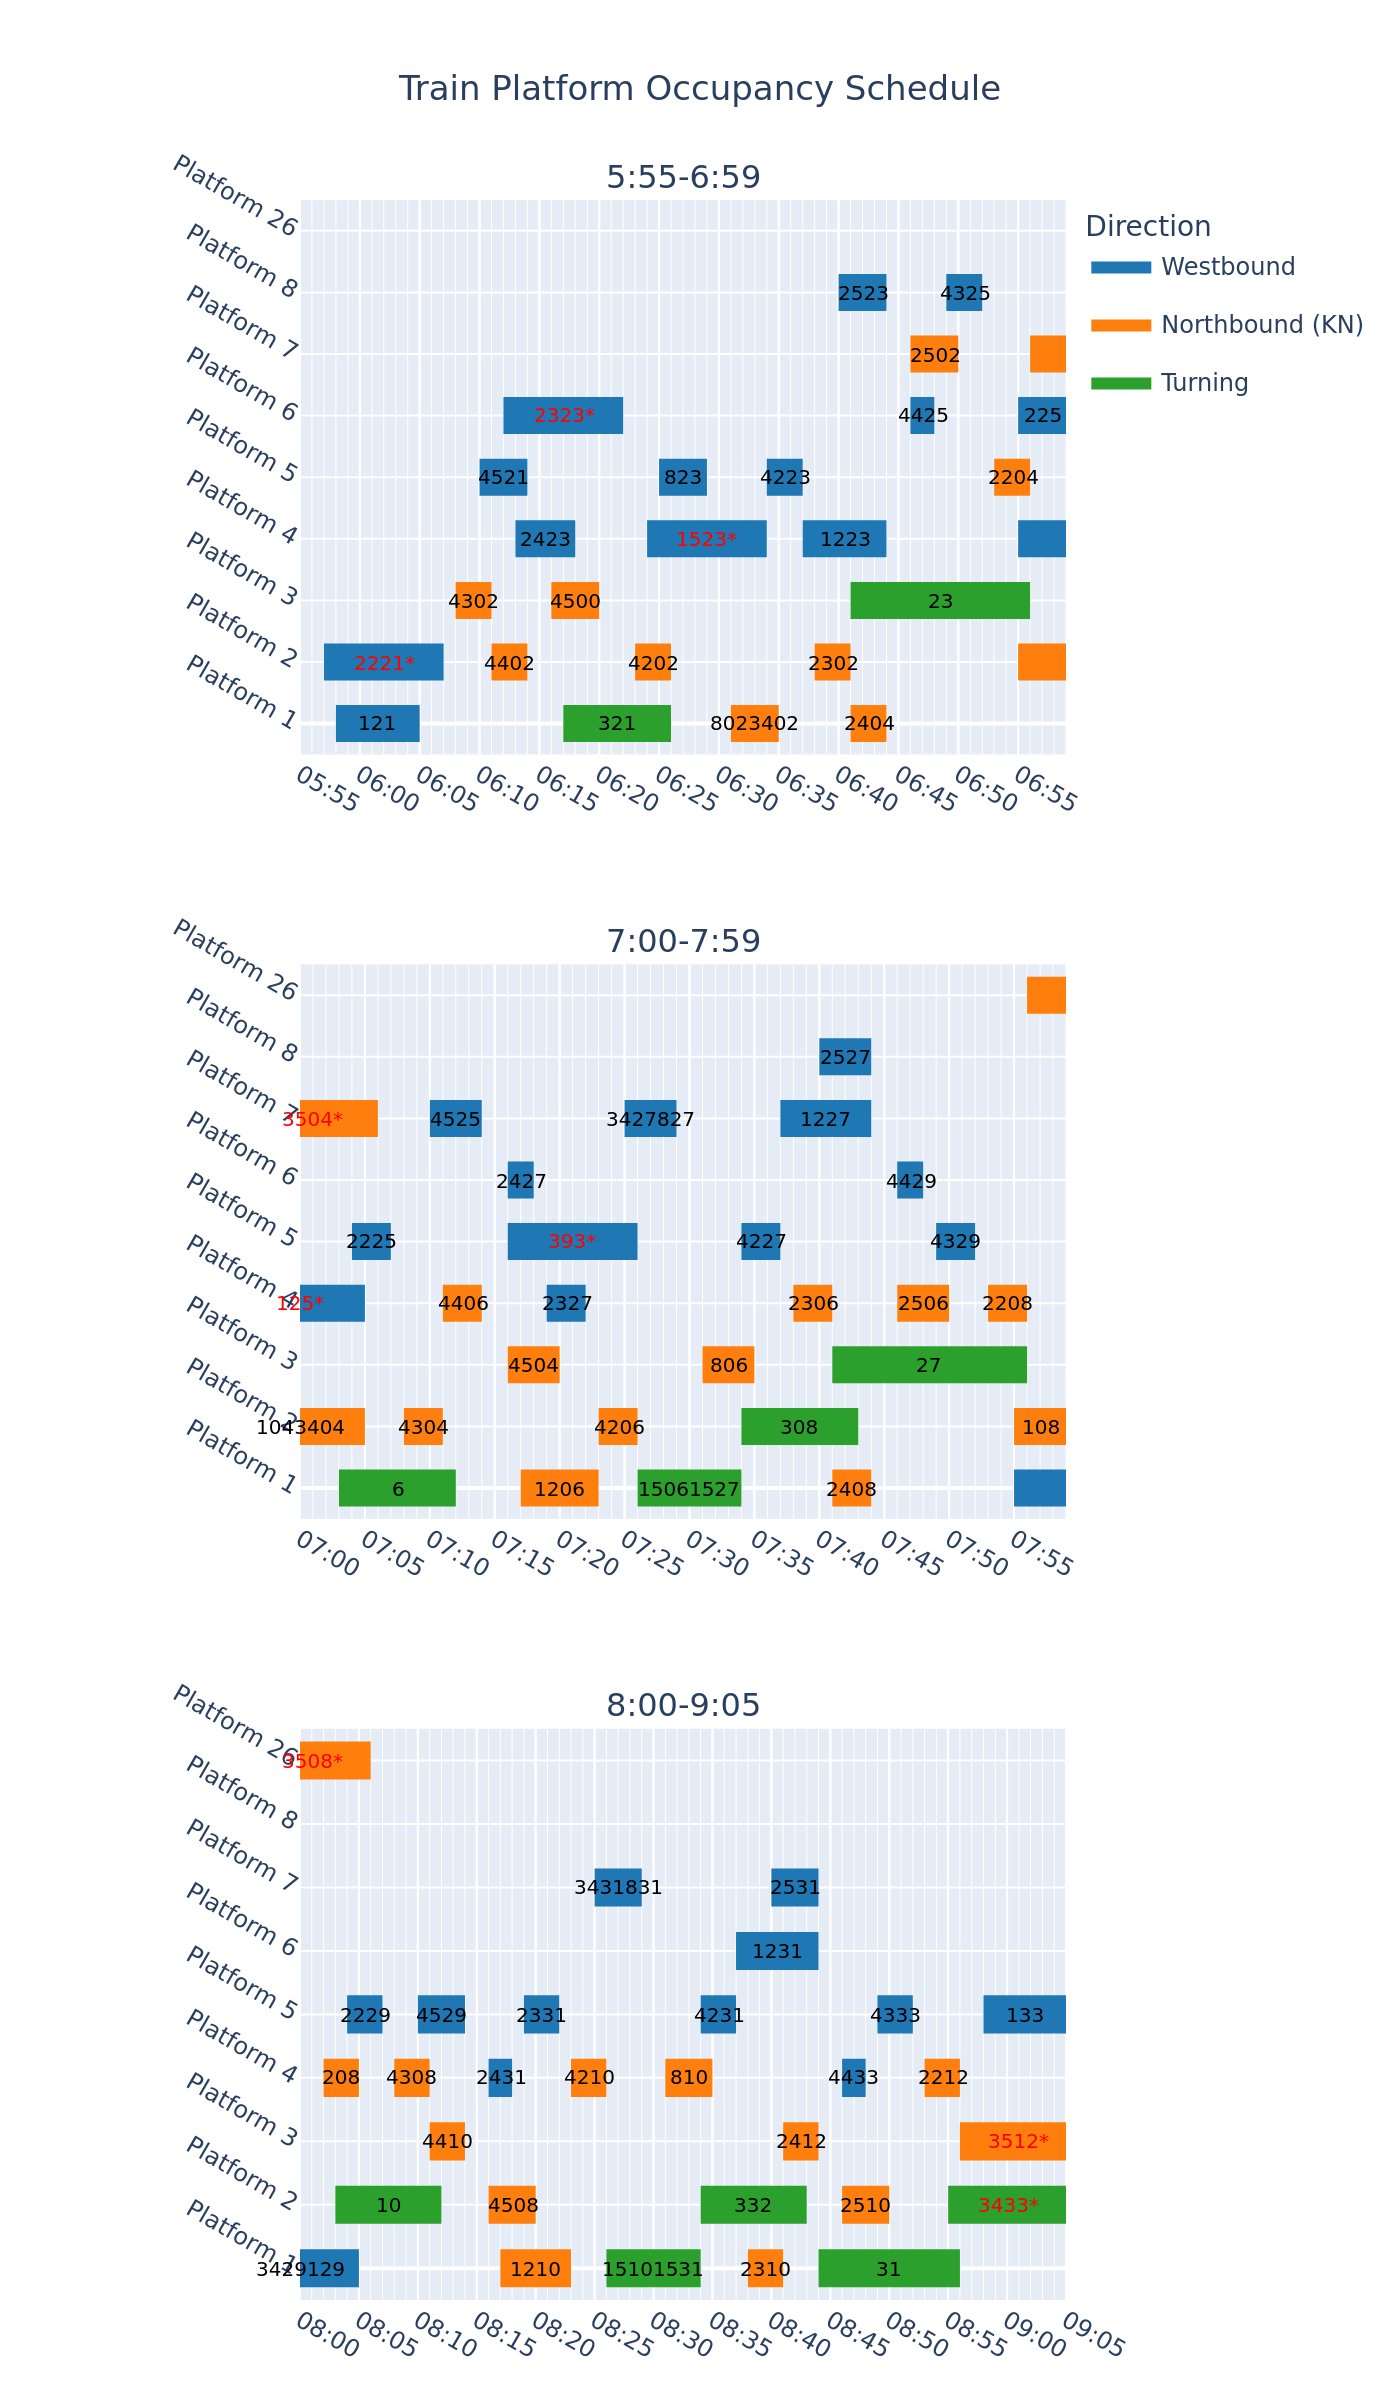
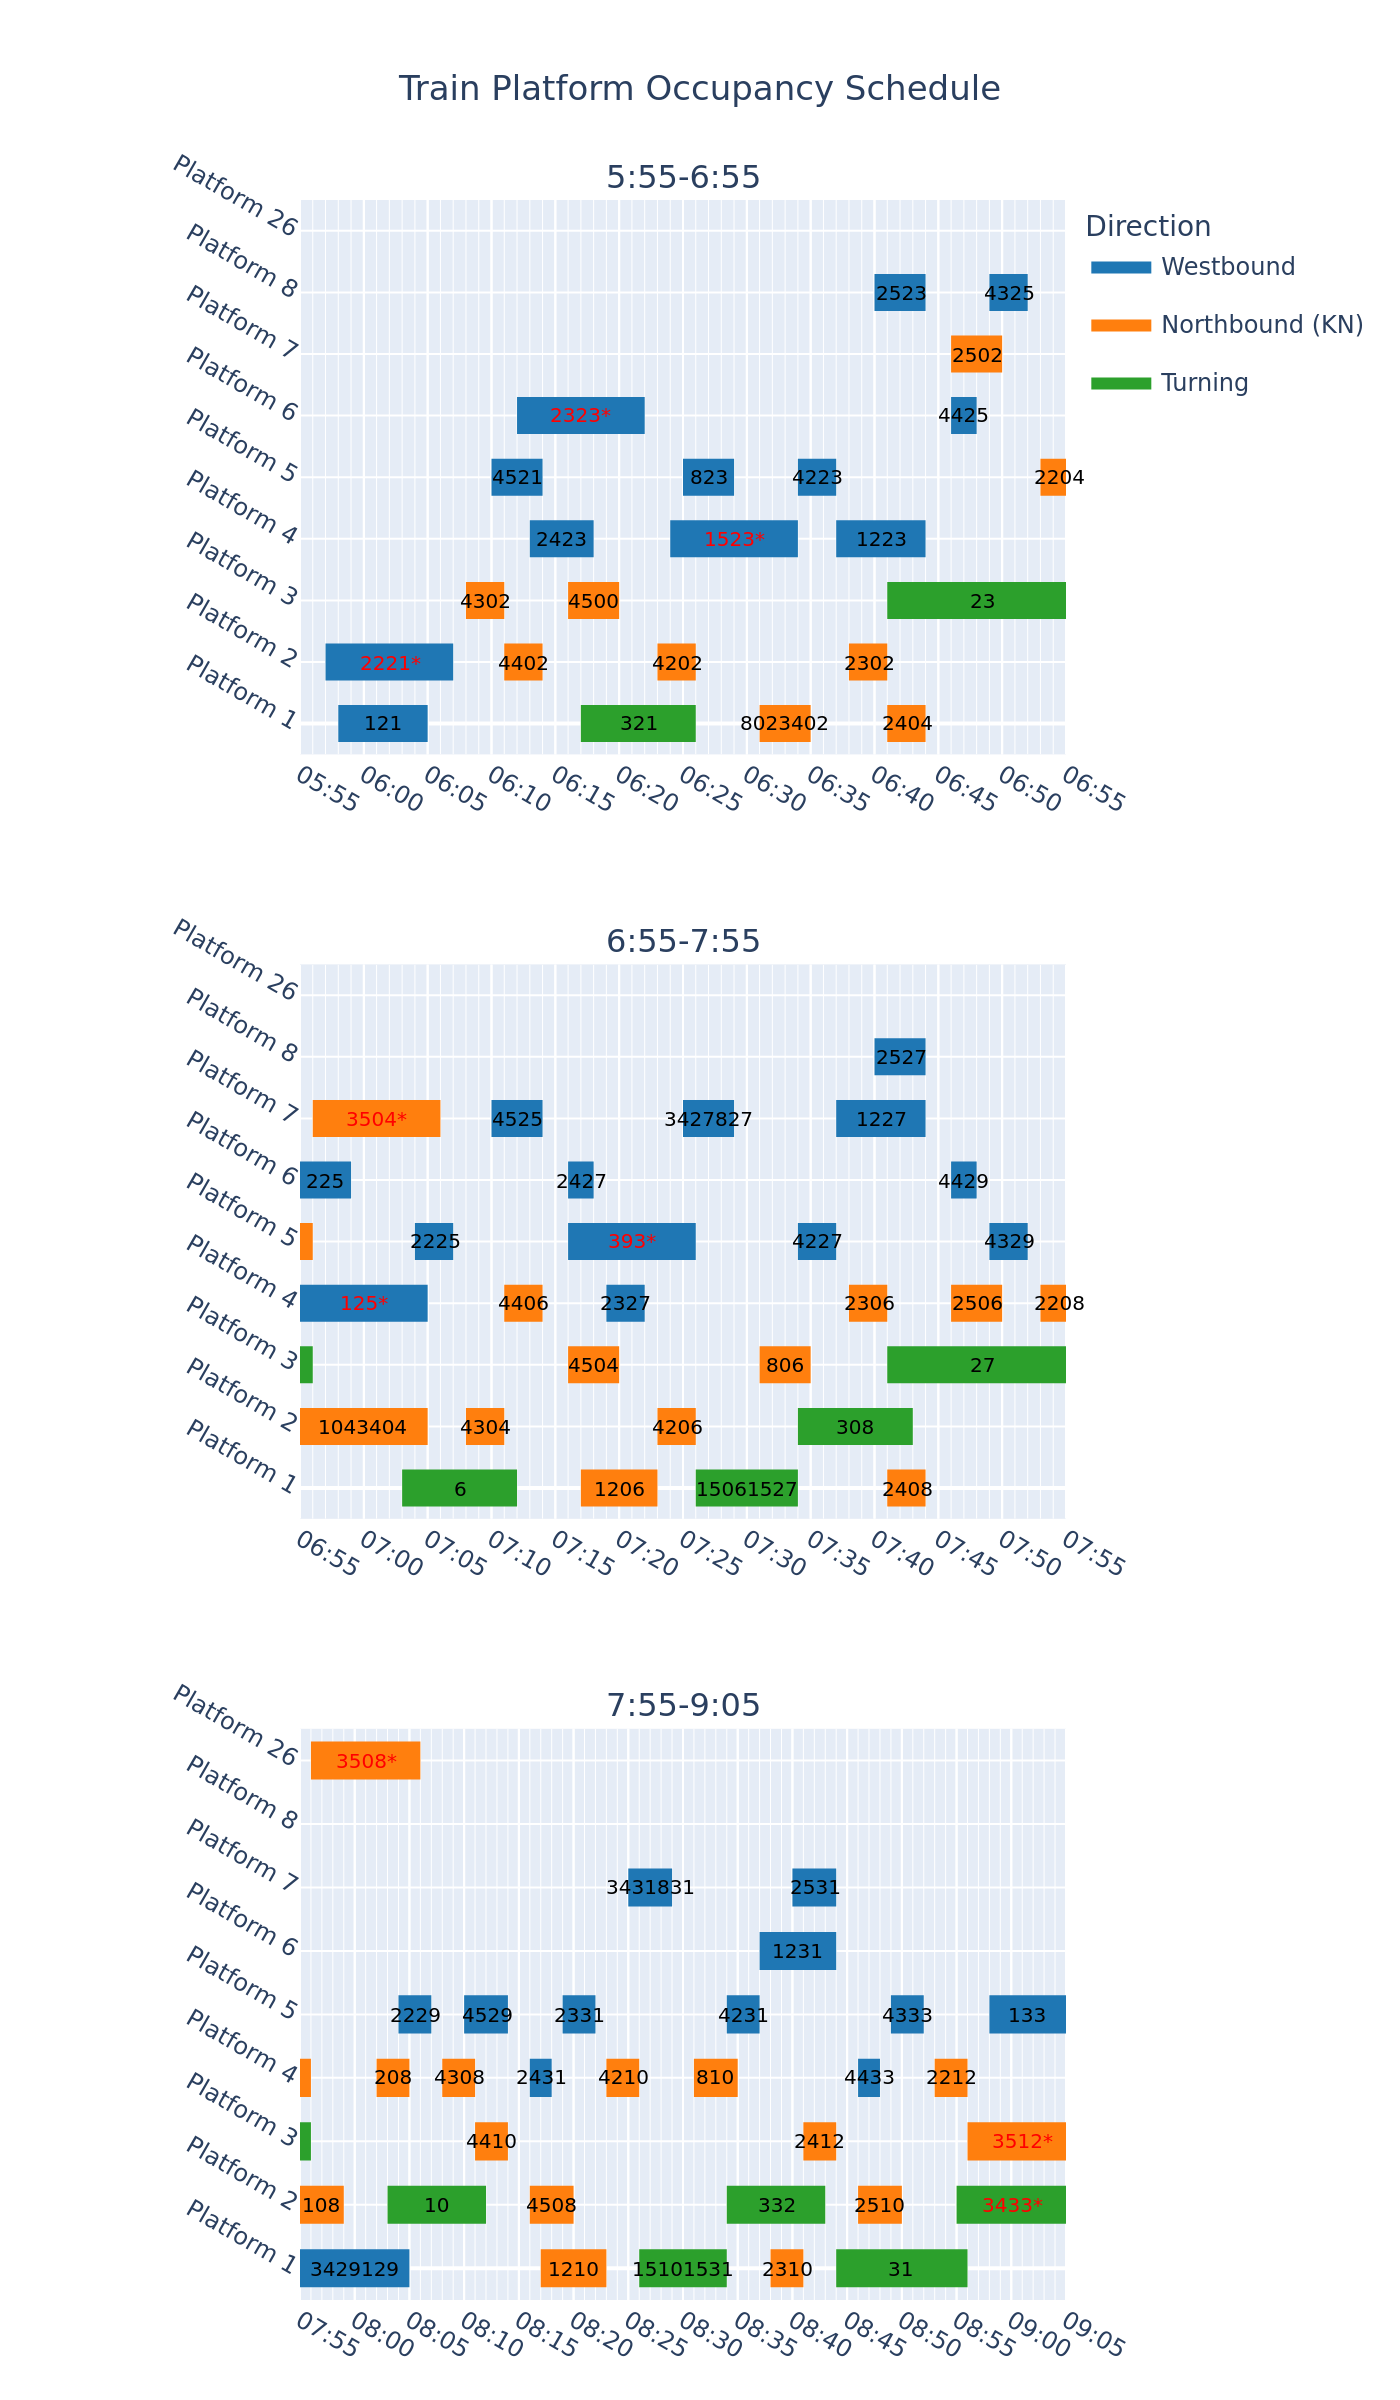
update

diff --git a/visuals.py b/visuals.py
@@ -18,9 +18,9 @@ df['departure_time'] = pd.to_datetime(today + ' ' + df['departure_time'])
 
 # Define time intervals
 time_ranges = [
-    ('05:55:00', '06:59:00'),
-    ('07:00:00', '07:59:00'),
-    ('08:00:00', '09:05:00')
+    ('05:55:00', '06:55:00'),
+    ('06:55:00', '07:55:00'),
+    ('07:55:00', '09:05:00')
 ]
 
 # Define a consistent start time for the grid lines (e.g., 05:55:00)
@@ -30,7 +30,7 @@ five_minutes_ms = 5 * 60 * 1000
 # Create subplots
 fig = make_subplots(
     rows=3, cols=1,
-    subplot_titles=["5:55-6:59", "7:00-7:59", "8:00-9:05"],
+    subplot_titles=["5:55-6:55", "6:55-7:55", "7:55-9:05"],
     vertical_spacing=0.1,
     shared_yaxes=True,
     row_heights=[0.33, 0.33, 0.34]
